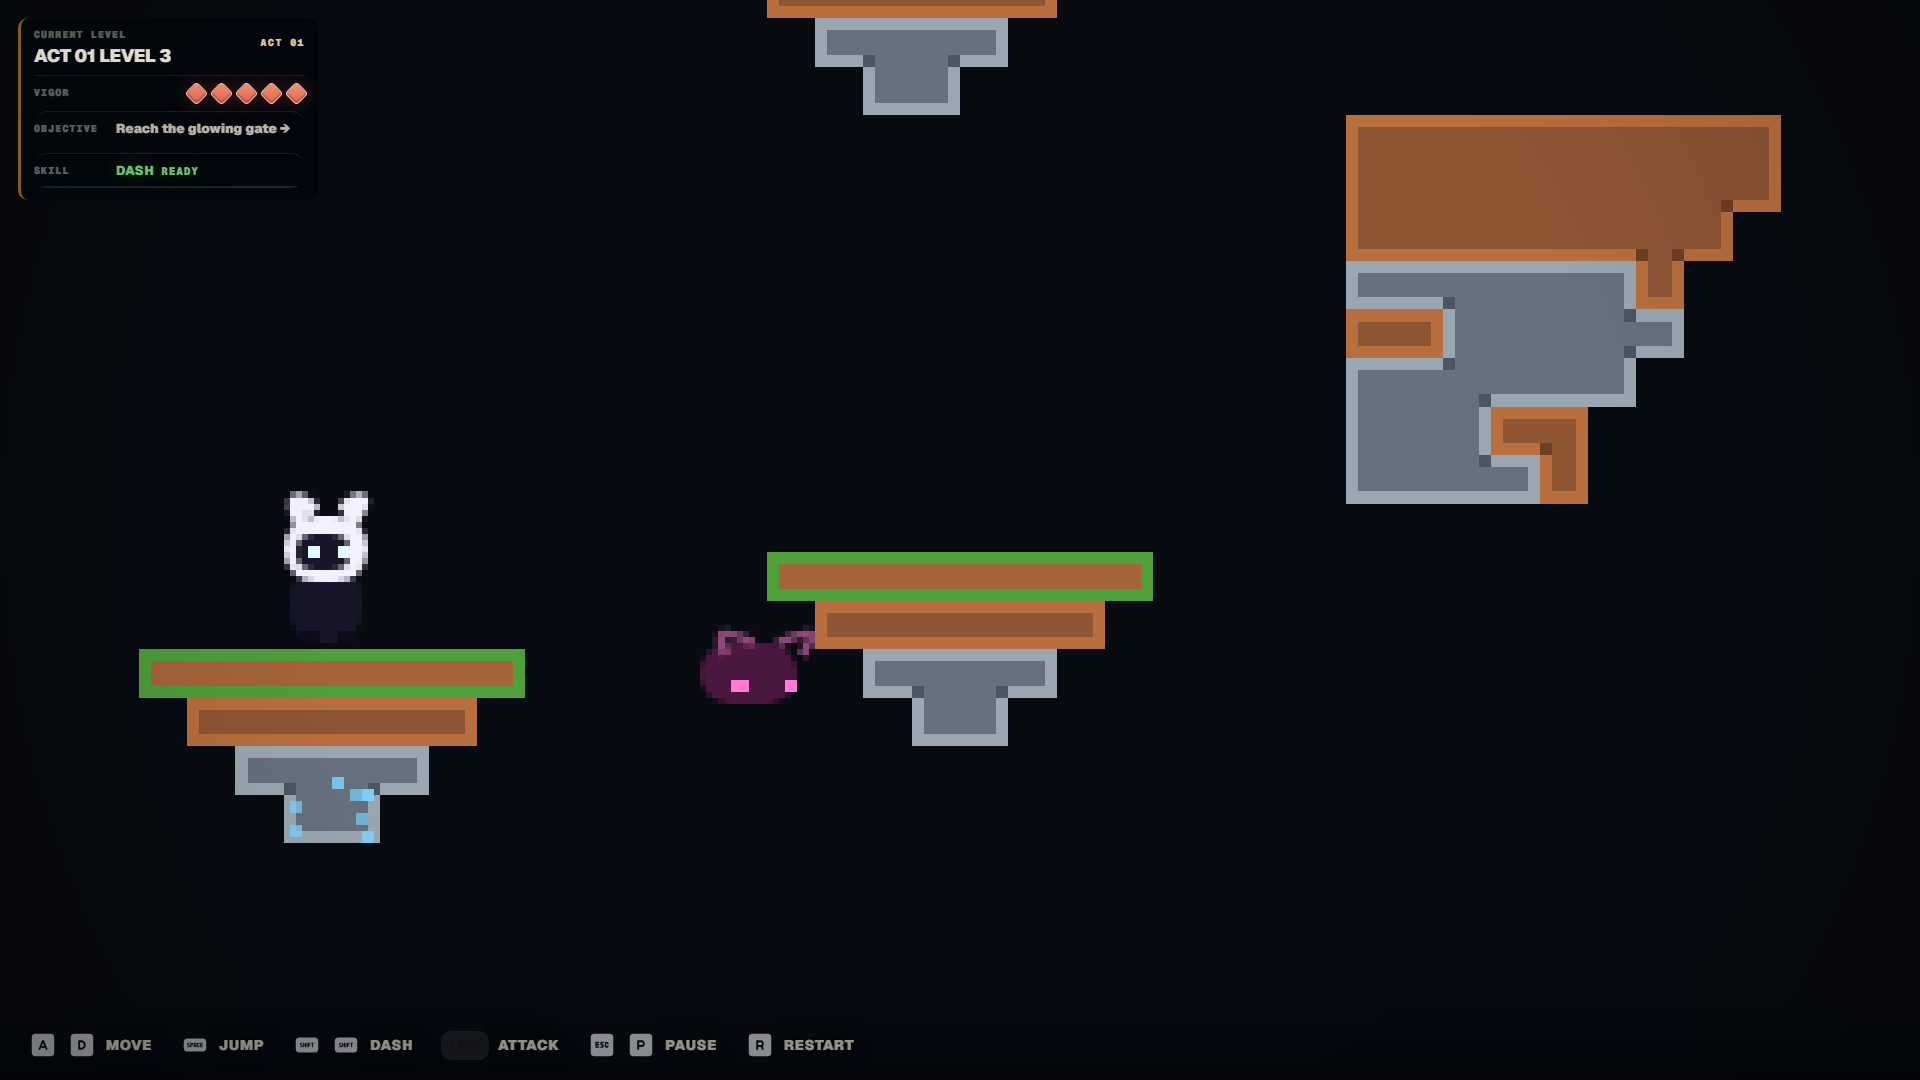
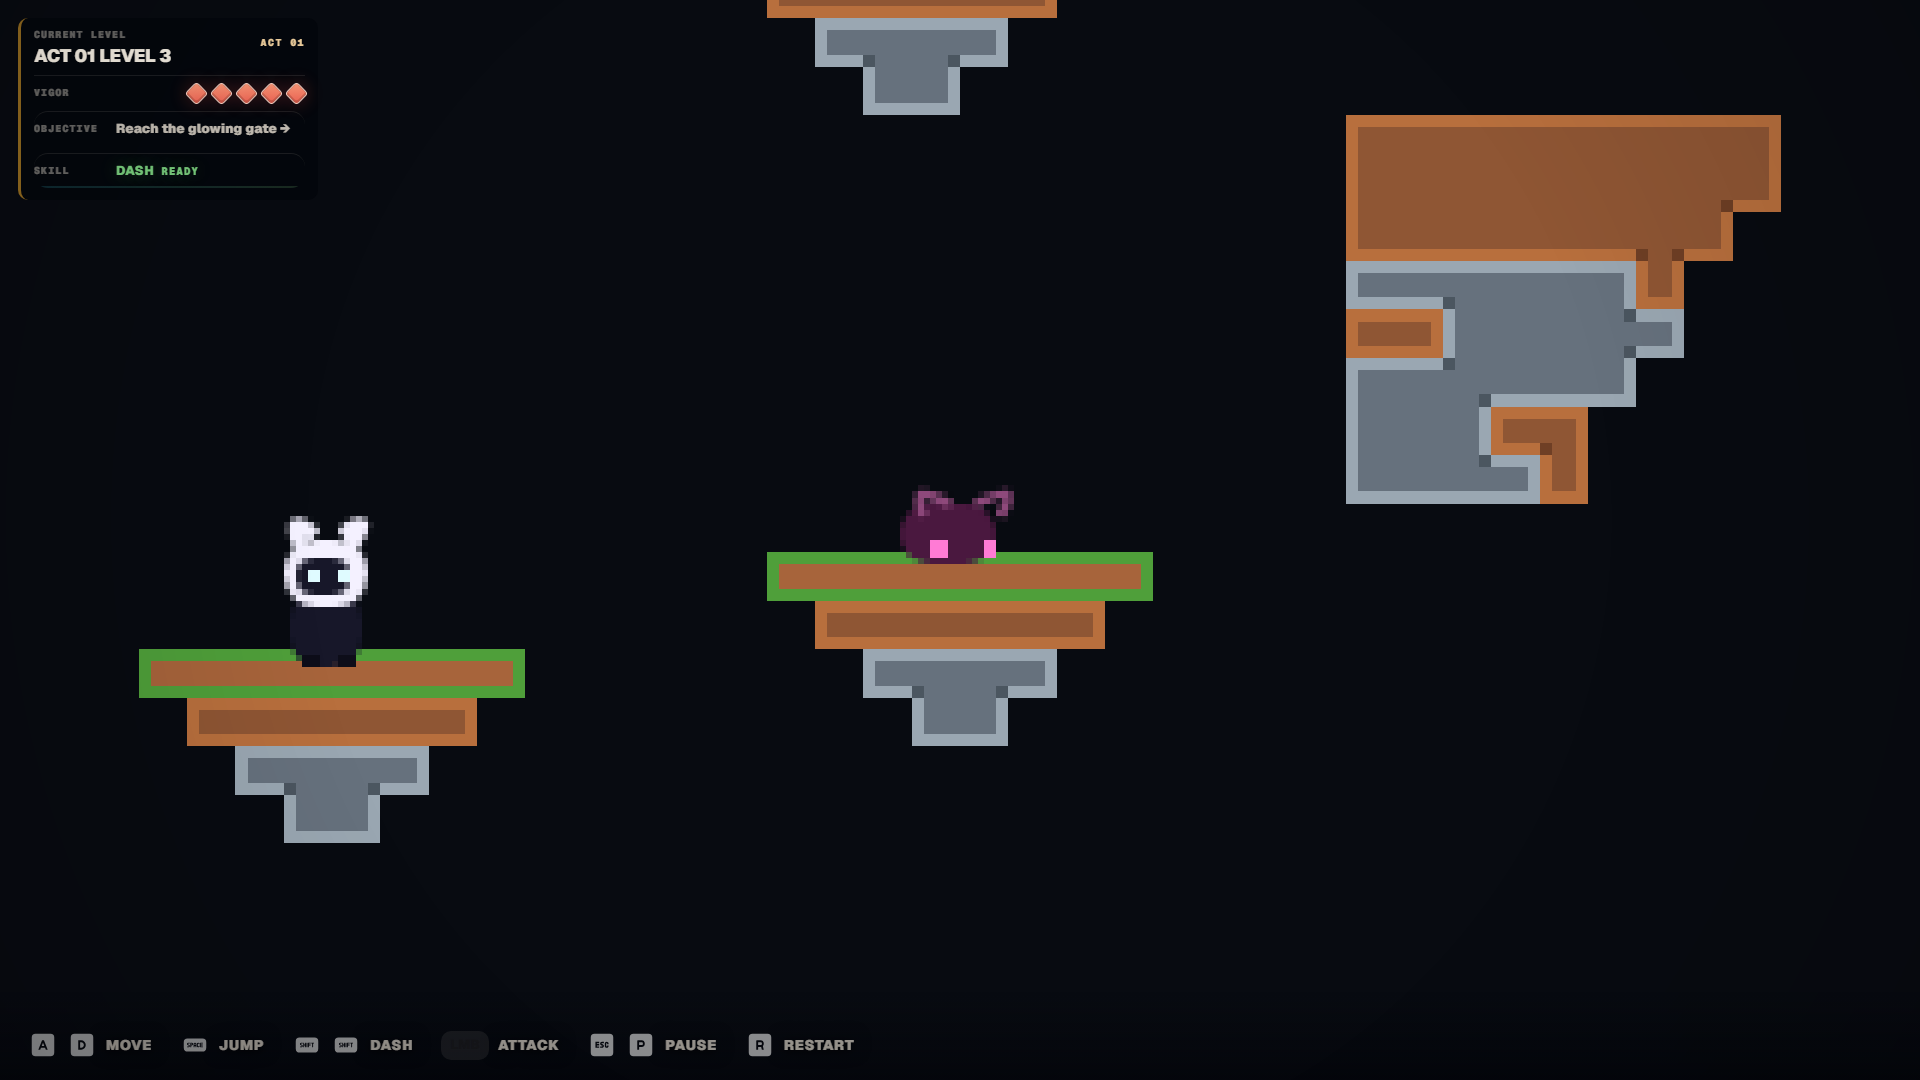
Stabilize campaign launch asset captures

diff --git a/src/main.game.js b/src/main.game.js
@@ -139,7 +139,8 @@ function frame(now = runtime.now()) {
   if (!menuUsedGamepad && isStarted(game) && !game.player.dead && !isWon(game) && pausePressed) {
     setPaused(game, !isPaused(game), runtime);
   }
-  if (isStarted(game) && !isPaused(game)) {
+  const captureUpdatesFrozen = document.documentElement.dataset.captureFreeze === 'gameplay';
+  if (isStarted(game) && !isPaused(game) && !captureUpdatesFrozen) {
     scenes.update(dt);
     game.inputRuntime?.endFrame?.();
     updateSpeedRun(game, dt, runtime);

diff --git a/src/app/capture-mode.js b/src/app/capture-mode.js
@@ -30,6 +30,8 @@ export function applyCaptureMode(game, runtime) {
   }
 
   if (target === 'campaign-gameplay') {
+    document.documentElement.dataset.captureFreeze = 'gameplay';
+    document.body.dataset.captureFreeze = 'gameplay';
     game.scenarios.select('act-01-level-3');
     game.scenarios.launch('act-01-level-3', { origin: 'capture-mode' });
     startGame(game, runtime);
